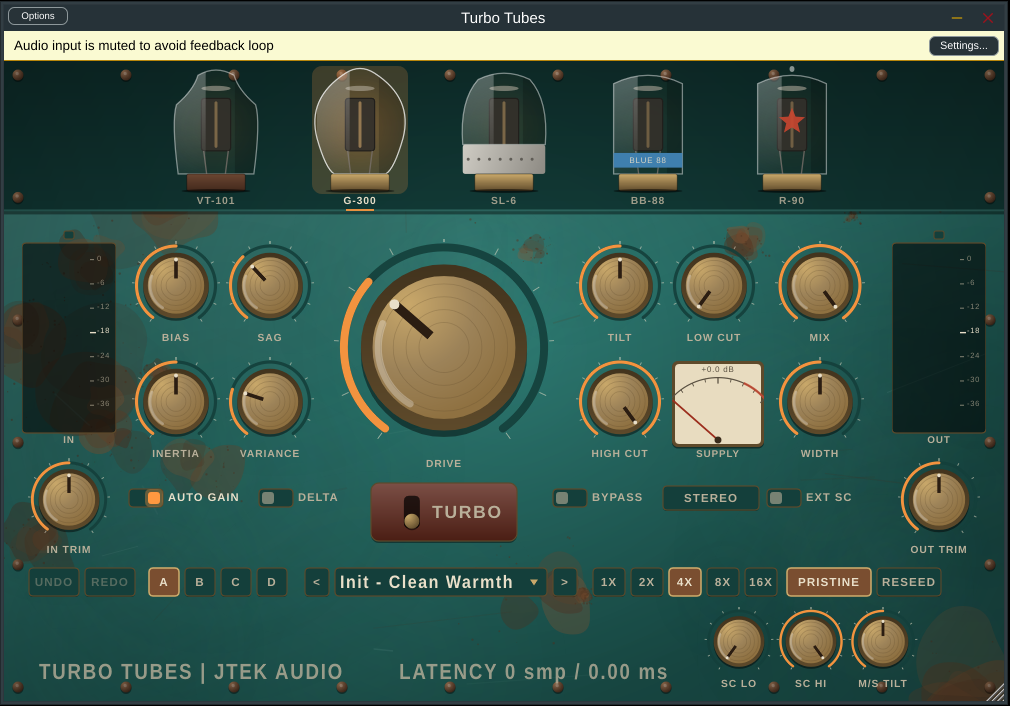
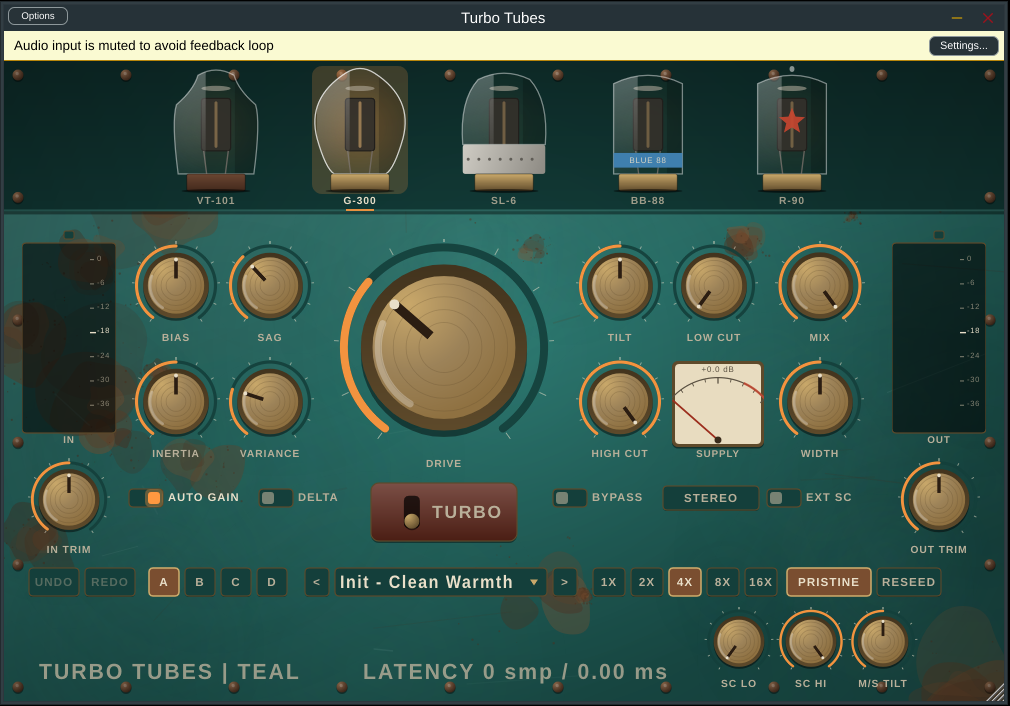
Rebrand publisher to TEAL
Company/manufacturer, installer publisher, UI footer, and license now read
TEAL (manufacturer code Teal / com.teal.turbotubes). The installer therefore
lists TEAL as publisher and installs under Program Files\TEAL.

Claude-Session: https://claude.ai/code/session_01Ako32tqq3h4xSfvXDjogbM

Changed region(s): [[0.0307, 0.9348, 0.6752, 0.966]]

diff --git a/plugin/PluginEditor.cpp b/plugin/PluginEditor.cpp
@@ -373,7 +373,7 @@ void TurboTubesEditor::timerCallback()
     {
         const int lat = processor.getLatencySamples();
         const double ms = 1000.0 * lat / std::max (44100.0, processor.getSampleRate());
-        footer.setText (juce::String ("TURBO TUBES | JTEK AUDIO        LATENCY ")
+        footer.setText (juce::String ("TURBO TUBES | TEAL        LATENCY ")
                             + juce::String (lat) + " smp / " + juce::String (ms, 2) + " ms",
                         juce::dontSendNotification);
         footer.setFont (stencilFont (12.0f, false));
